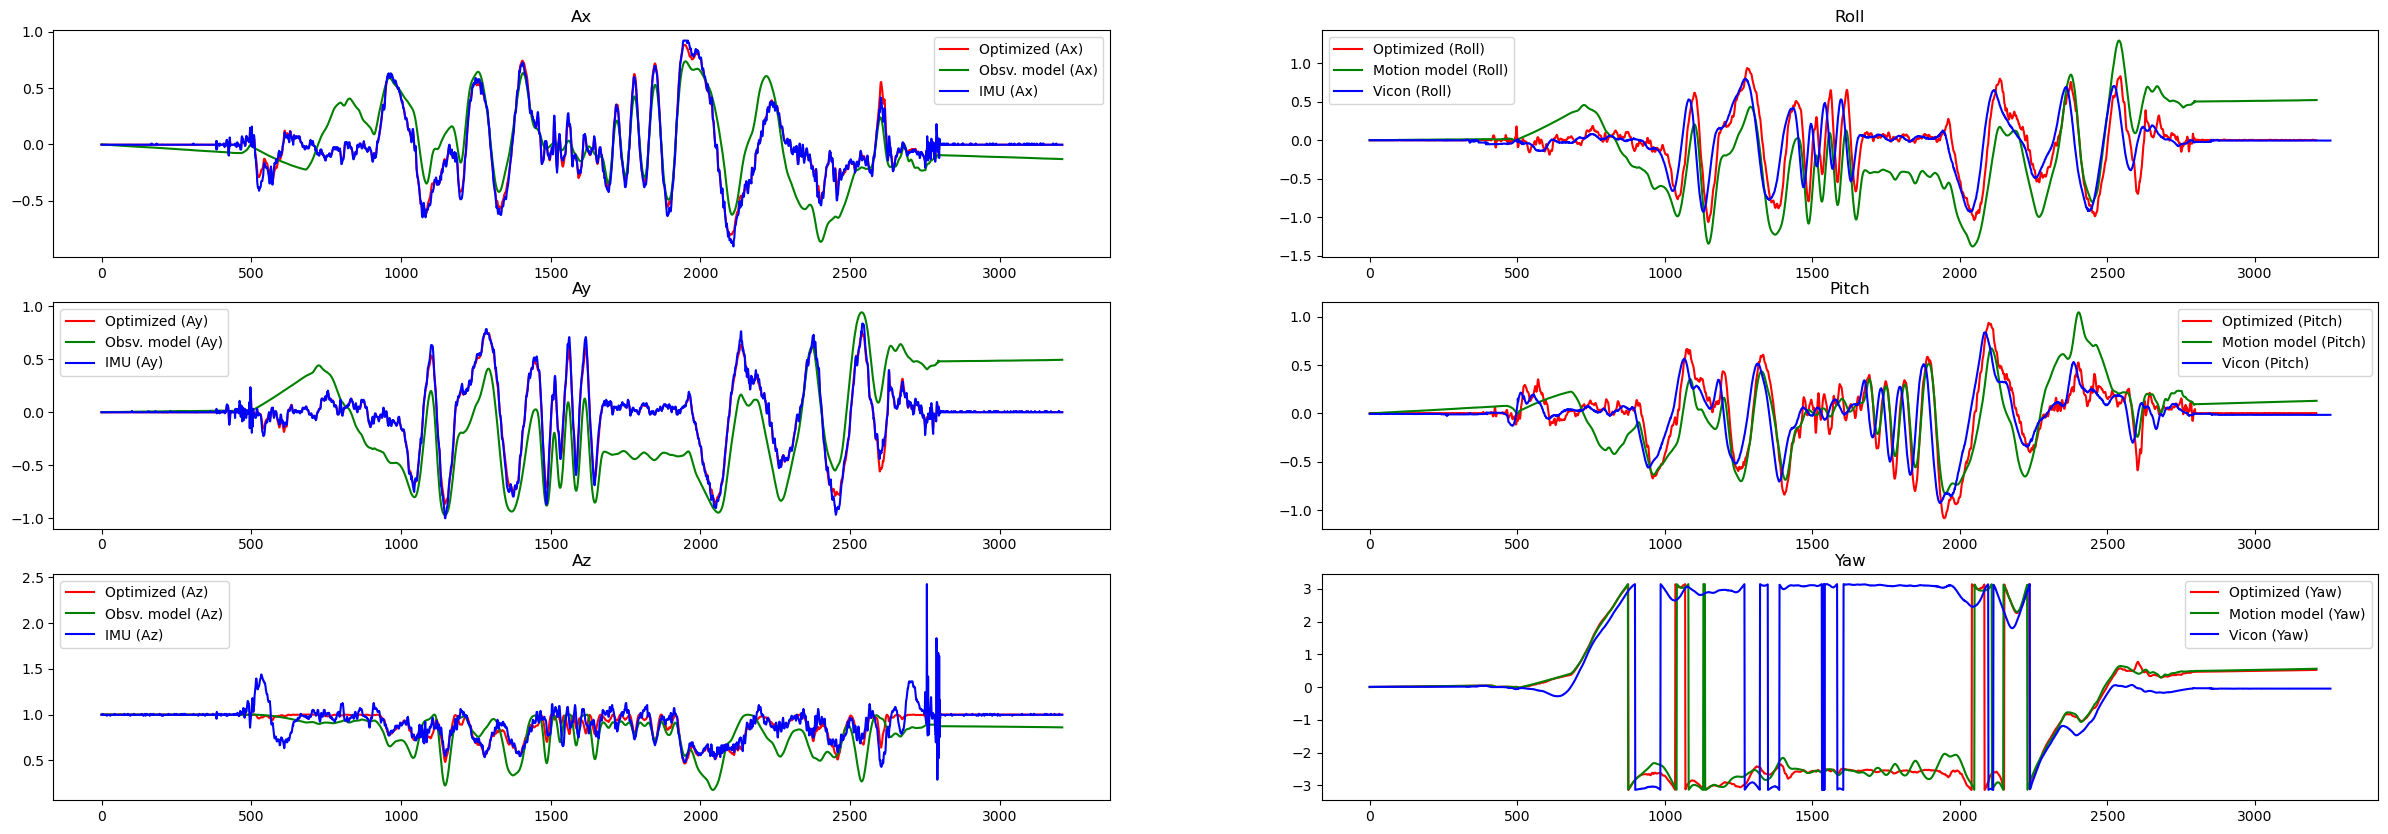
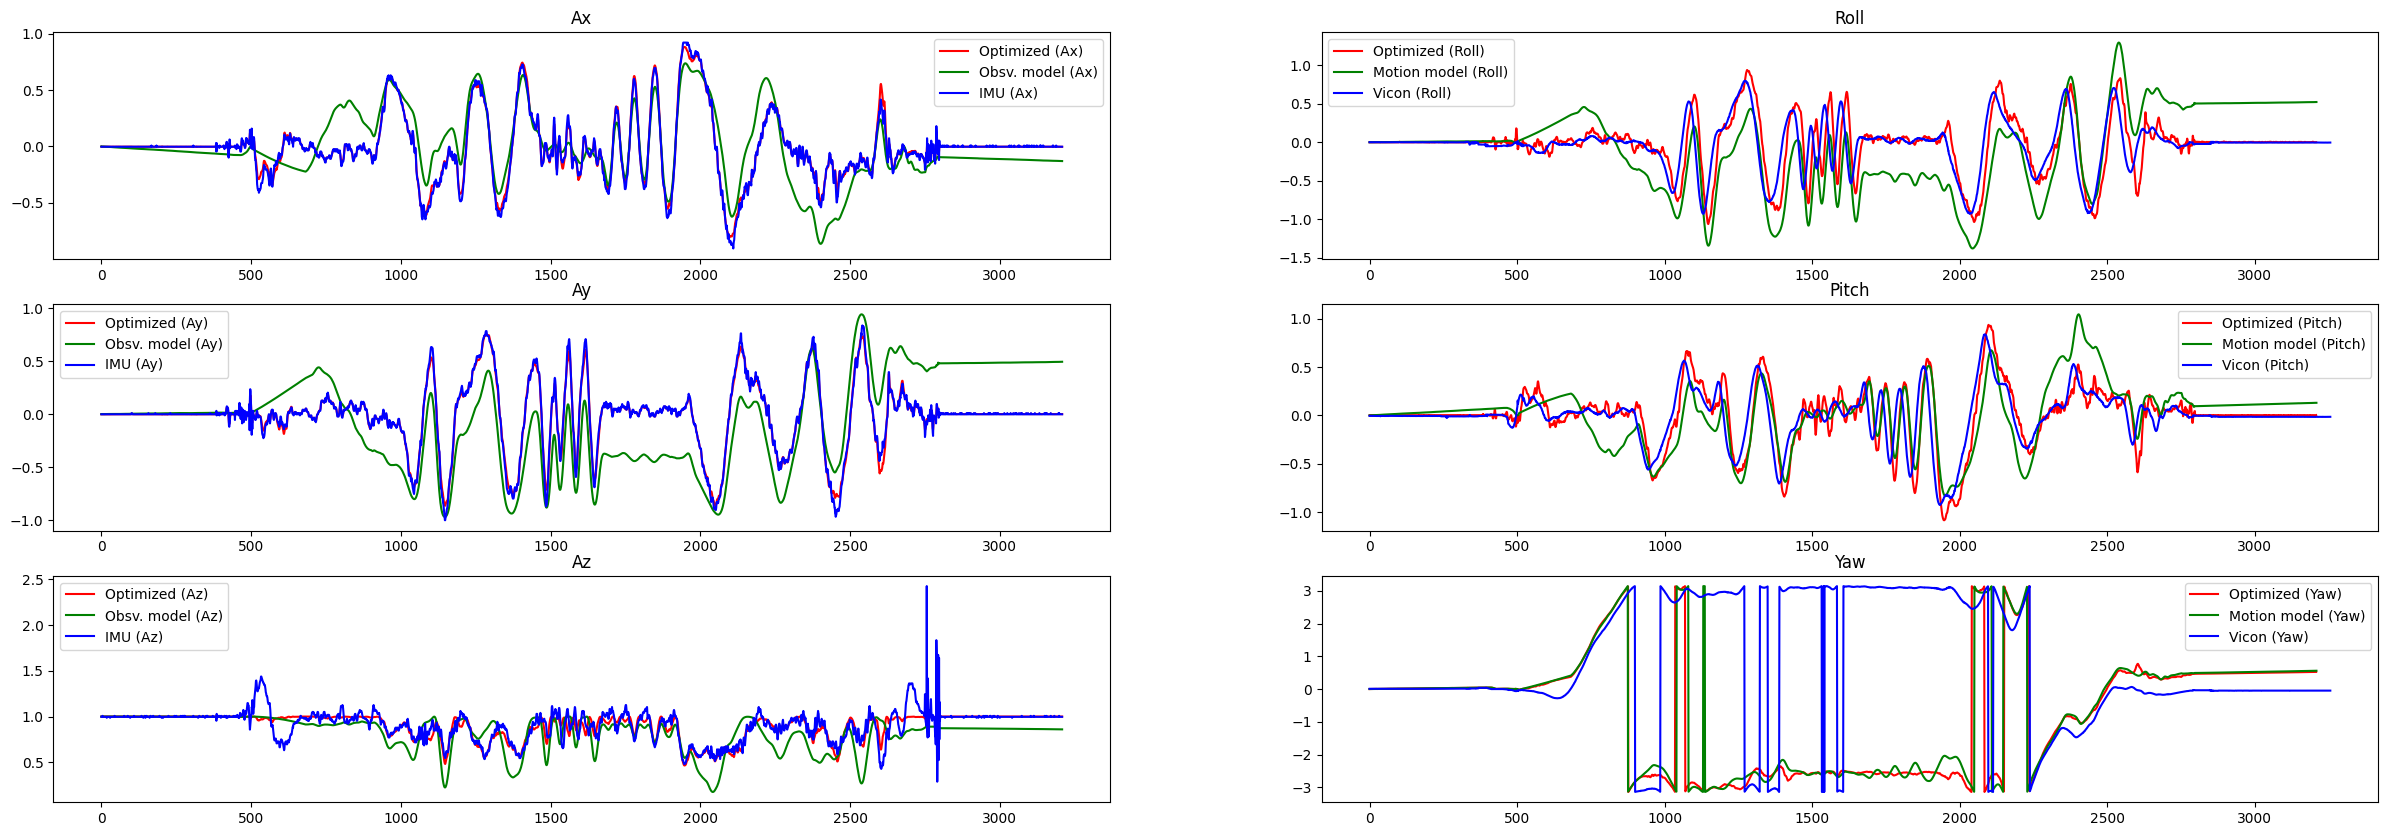
[ADD] CI/CD pipeline

diff --git a/modules/jax_quaternion_test.py b/modules/jax_quaternion_test.py
@@ -1,0 +1,85 @@
+import pytest
+import jax
+from jax import random
+import jax.numpy as jnp
+import transforms3d.quaternions as tq
+from jax_quaternion import qmult_jax, qinverse_jax, qexp_jax, qlog_jax
+
+from jax_quaternion import USE_JIT
+USE_JIT = True # Disable JIT for testing
+
+ATOL = 1e-5
+RTOL = 1e-5
+
+def random_q_batch(key, n=1000):
+    q = jax.random.uniform(key, shape=(n, 4), dtype=jnp.float32)
+    q /= jnp.linalg.norm(q, axis=1).reshape(-1, 1)
+    return q
+
+def random_q(key):
+    q = jax.random.uniform(key, shape=(4,), dtype=jnp.float32)
+    q /= jnp.linalg.norm(q)
+    return q
+
+@pytest.fixture
+def key():
+    return random.PRNGKey(0)
+
+def test_qmult(key):
+    # Test single quaternion multiplication
+    q1 = random_q(key)
+    q2 = random_q(key)
+    result_jax = qmult_jax(q1, q2)
+    result_tq = tq.qmult(q1, q2)
+    try:
+        assert jnp.allclose(result_jax, result_tq, atol=ATOL, rtol=RTOL)
+    except AssertionError:
+        print("Failed for single qmult operation")
+        print("qmult_jax output:", result_jax)
+        print("tq.qmult output:", result_tq)
+        raise
+
+    # Test batch of quaternion multiplications
+    q1_batch = random_q_batch(key)
+    q2_batch = random_q_batch(key)
+    result_jax_batch = qmult_jax(q1_batch, q2_batch)
+    for i in range(q1_batch.shape[0]):
+        result_tq_batch = tq.qmult(q1_batch[i], q2_batch[i])
+        try:
+            assert jnp.allclose(result_jax_batch[i], result_tq_batch, atol=ATOL, rtol=RTOL)
+        except AssertionError:
+            print(f"Failed at index {i} for batch qmult operation")
+            print("qmult_jax output:", result_jax_batch[i])
+            print("tq.qmult output:", result_tq_batch)
+            raise
+
+@pytest.mark.parametrize("function_jax, function_tq", [
+    (qinverse_jax, tq.qinverse),
+    (qexp_jax, tq.qexp),
+    (qlog_jax, tq.qlog),
+])
+def test_single_quaternion_operations(function_jax, function_tq, key):
+    # Test single quaternion operation
+    q = random_q(key)
+    result_jax = function_jax(q)
+    result_tq = function_tq(q)
+    try:
+        assert jnp.allclose(result_jax, result_tq, atol=ATOL, rtol=RTOL)
+    except AssertionError:
+        print(f"Failed for single {function_jax.__name__} operation")
+        print(f"{function_jax.__name__} output:", result_jax)
+        print(f"{function_tq.__name__} output:", result_tq)
+        raise
+
+    # Test batch of quaternion operations
+    q_batch = random_q_batch(key)
+    for i in range(q_batch.shape[0]):
+        result_jax_batch = function_jax(q_batch[i])
+        result_tq_batch = function_tq(q_batch[i])
+        try:
+            assert jnp.allclose(result_jax_batch, result_tq_batch, atol=ATOL, rtol=RTOL)
+        except AssertionError:
+            print(f"Failed at index {i} for batch {function_jax.__name__} operation")
+            print(f"{function_jax.__name__} output:", result_jax_batch)
+            print(f"{function_tq.__name__} output:", result_tq_batch)
+            raise

diff --git a/modules/jax_quaternion.py b/modules/jax_quaternion.py
@@ -1,10 +1,22 @@
 import jax
 import jax.numpy as jnp
 
-# Numerical stability
+USE_JIT = True
+
+def use_jit(q_func):
+    """
+    A decorator to turn JIT off for
+    jax_quaternion_test.py
+    """
+    if USE_JIT:
+        return jax.jit(q_func)
+    else:
+        return q_func
+
+# numerical stability constant
 EPS = 1e-6
 
-@jax.jit
+@use_jit
 def qmult_jax(q1, q2):
     """
     Batched version of quaternion multiplication.
@@ -27,7 +39,7 @@ def qmult_jax(q1, q2):
         res = res[0]
     return res
 
-@jax.jit
+@use_jit
 def qinverse_jax(q):
     """
     Batched version of quaternion inverse.
@@ -36,7 +48,7 @@ def qinverse_jax(q):
     q_norm_sq = (jnp.linalg.norm(q, axis=-1, keepdims=True)**2) + EPS
     return q_conj / q_norm_sq
 
-@jax.jit
+@use_jit
 def qexp_jax(q):
     """
     Batched version of quaternion exponential.
@@ -48,7 +60,7 @@ def qexp_jax(q):
     q_term = jnp.concatenate([jnp.cos(qv_norm), qv_normed], axis=-1)
     return jnp.exp(q[..., :1]) * q_term
 
-@jax.jit
+@use_jit
 def qlog_jax(q):
     """
     Batched version of quaternion logarithm.
@@ -60,5 +72,3 @@ def qlog_jax(q):
     q_norm = jnp.linalg.norm(q, axis=-1, keepdims=True) + EPS
     q_term = jnp.concatenate([jnp.log(q_norm), qv_normed * jnp.arccos(q[..., :1] / q_norm)], axis=-1)
     return q_term
-
-

diff --git a/modules/pgd.py b/modules/pgd.py
@@ -50,13 +50,6 @@ def optimize(
     q_motion, exp_term = motion_model(q_motion, w_ts, t_ts)
     a_obs = observation_model(q_motion)
 
-    # Try sensor fusion
-    # print(f"Running sensor fusion for dataset {dataset}...")
-    # tau_ts = (t_ts[1:] - t_ts[:-1]).reshape(-1, 1)
-    # q_motion = sensor_fusion(w_ts, a_ts, tau_ts, alpha=0.5)
-    # a_obs = observation_model(q_motion)
-    # exp_term = qexp_jax(jnp.hstack((jnp.zeros((w_ts.shape[0]-1, 1)), w_ts[:-1] * tau_ts / 2)))
-
     # Print all shapes
     q_optim, costs = pgd(
         q_motion,
@@ -84,7 +77,6 @@ def cost_function(q, exp, acc_imu):
         )
     )**2
     term_2 = 0.5 * jnp.linalg.norm(acc_imu[1:, :] - observation_model(q))**2
-    jax.debug.print("Term 1: {}, Term 2: {}", jnp.round(term_1, 3), jnp.round(term_2, 3))
     return term_1 + term_2
 
 def motion_model(q, w_ts, t_ts):

diff --git a/modules/helpers.py b/modules/helpers.py
@@ -80,7 +80,7 @@ def save_plot(
 
     filename = save_image_folder + 'dataset_' + str(dataset) + '.png'
     ts = np.array(list(range(len(q_optim))))
-    fig, axs = plt.subplots(3, 2, figsize=(30, 10))
+    fig, axs = plt.subplots(3, 2, figsize=(20, 10))
 
     # Plotting the acceleration data
     axs[0, 0].plot(ts, a_estims[:, 0],  label='Optimized (Ax)',   color='r')
